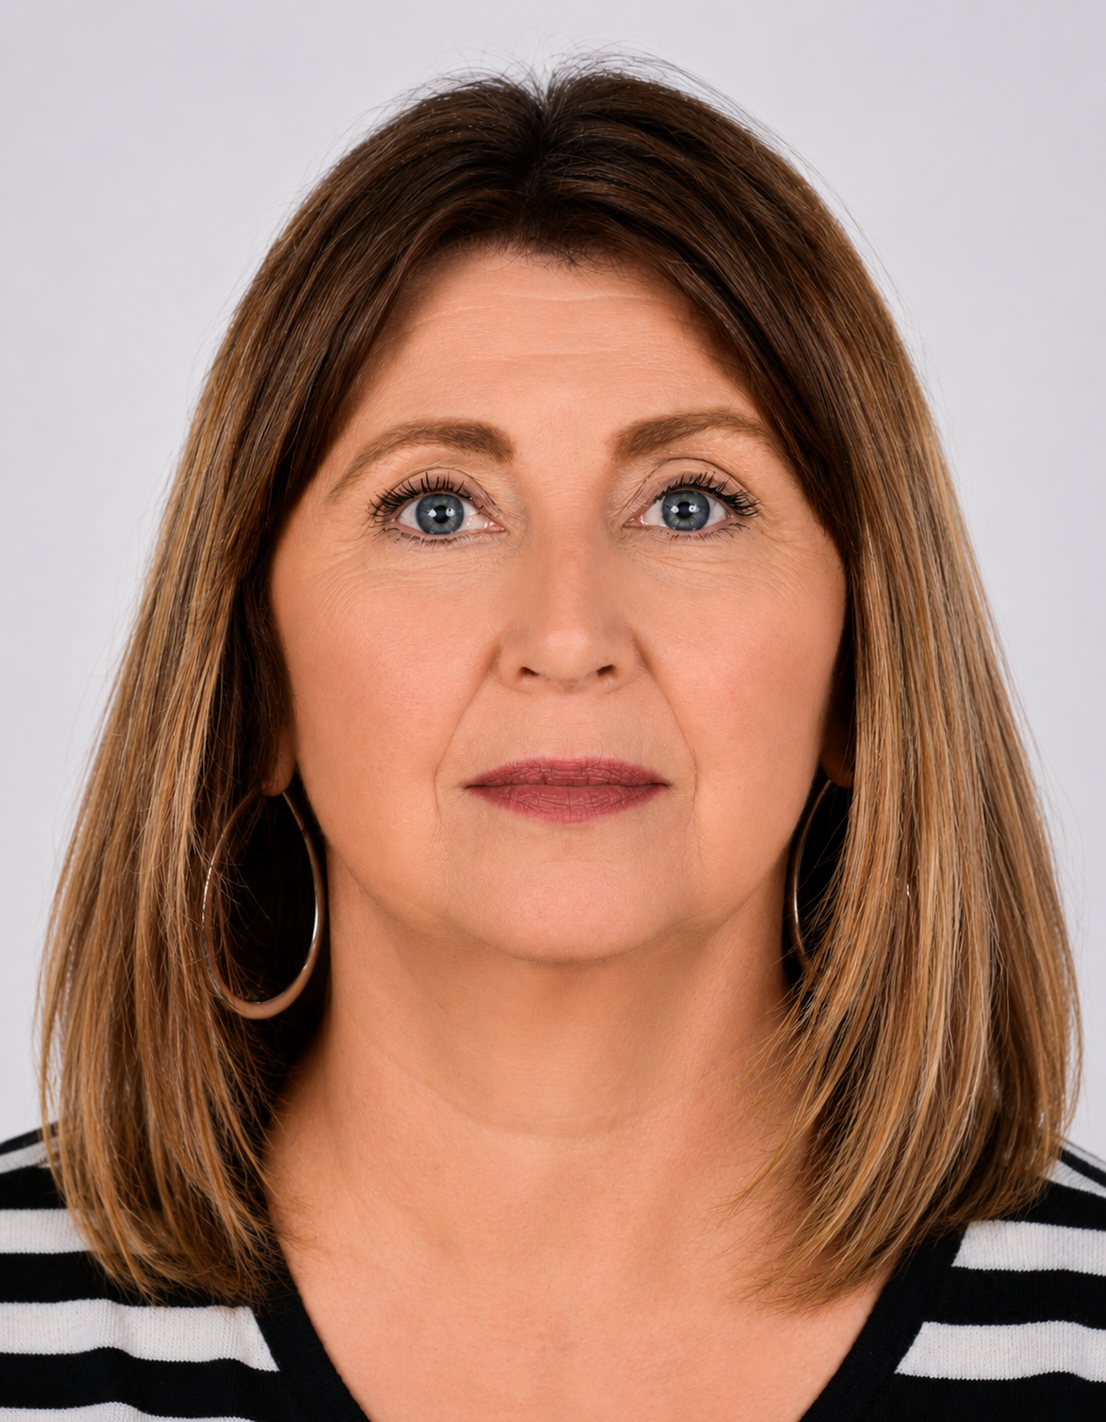
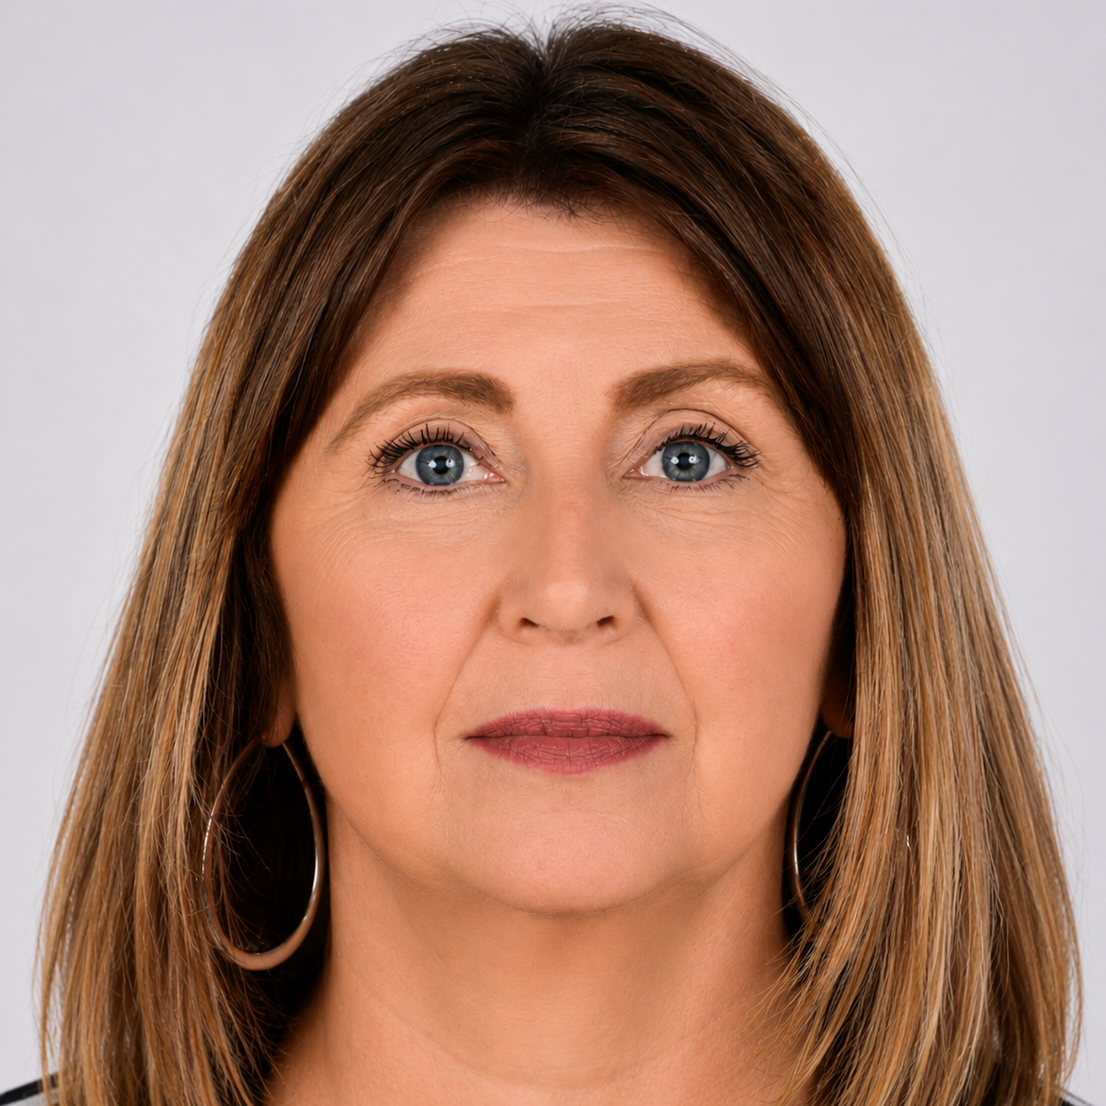
ajout des noms de domaine officiels

diff --git a/page3.html b/page3.html
@@ -7,7 +7,7 @@
         <meta charset="utf-8">
         <meta name="viewport" content="width=device-width, initial-scale=1">
         <meta name="author" content="Jerome POIRETTE">
-        <link rel="canonical" href="[https://www.la-porte-des-possibles.fr/page3.html](https://www.la-porte-des-possibles.fr/page3.html)">
+        <link rel="canonical" href="[https://educ-laportedespossibles.fr/page3.html](https://educ-laportedespossibles.fr/page3.html)">
         <meta name="description" content="La parcours type d'accompagnement, ce qui concrètement est mis en place">
 
         <!-- Favicons -->

diff --git a/page2.html b/page2.html
@@ -7,7 +7,7 @@
         <meta charset="utf-8">
         <meta name="viewport" content="width=device-width, initial-scale=1">
         <meta name="author" content=Jerome POIRETTE>
-        <link rel="canonical" href="[https://www.la-porte-des-possibles.fr/page2.html](https://www.la-porte-des-possibles.fr/page2.html)">
+        <link rel="canonical" href="[https://educ-laportedespossibles.fr/page2.html](https://educ-laportedespossibles.fr/page2.html)">
         <meta name="description" content="Ma démarche d'accompagnement avec mes valeurs éthiques">
 
 

diff --git a/page1.html b/page1.html
@@ -9,7 +9,7 @@
 
         <meta name="author" content=Jerome POIRETTE>
         <meta name="description" content="Découvrez mes expériences professionnelles et mes qualifications">
-        <link rel="canonical" href="[https://www.la-porte-des-possibles.fr/page1.html](https://www.la-porte-des-possibles.fr/page1.html)">
+        <link rel="canonical" href="[https://educ-laportedespossibles.fr/page1.html](https://educ-laportedespossibles.fr/page1.html)">
       
         
         <!-- Favicons -->

diff --git a/page4.html b/page4.html
@@ -8,7 +8,7 @@
 
             <meta name="author" content=Jerome POIRETTE>
             <meta name="description" content="Me contacter et obtenir un devis">
-            <link rel="canonical" href="[https://www.la-porte-des-possibles.fr/page4.html](https://www.la-porte-des-possibles.fr/page4.html)">
+            <link rel="canonical" href="[https://educ-laportedespossibles.fr/page4.html](https://educ-laportedespossibles.fr/page4.html)">
       
         
         <!-- Favicons -->

diff --git a/index.html b/index.html
@@ -13,7 +13,7 @@
             Un passage vers plus de clarté , plus de mouvement, plus de possibilités
             Franchir une porte, c’est déjà commencer à avancer.">
 
-            <link rel="canonical" href="https://www.la-porte-des-possibles.fr/">
+            <link rel="canonical" href="https://educ-laportedespossibles.fr">
       
         
         <!-- Favicons -->
